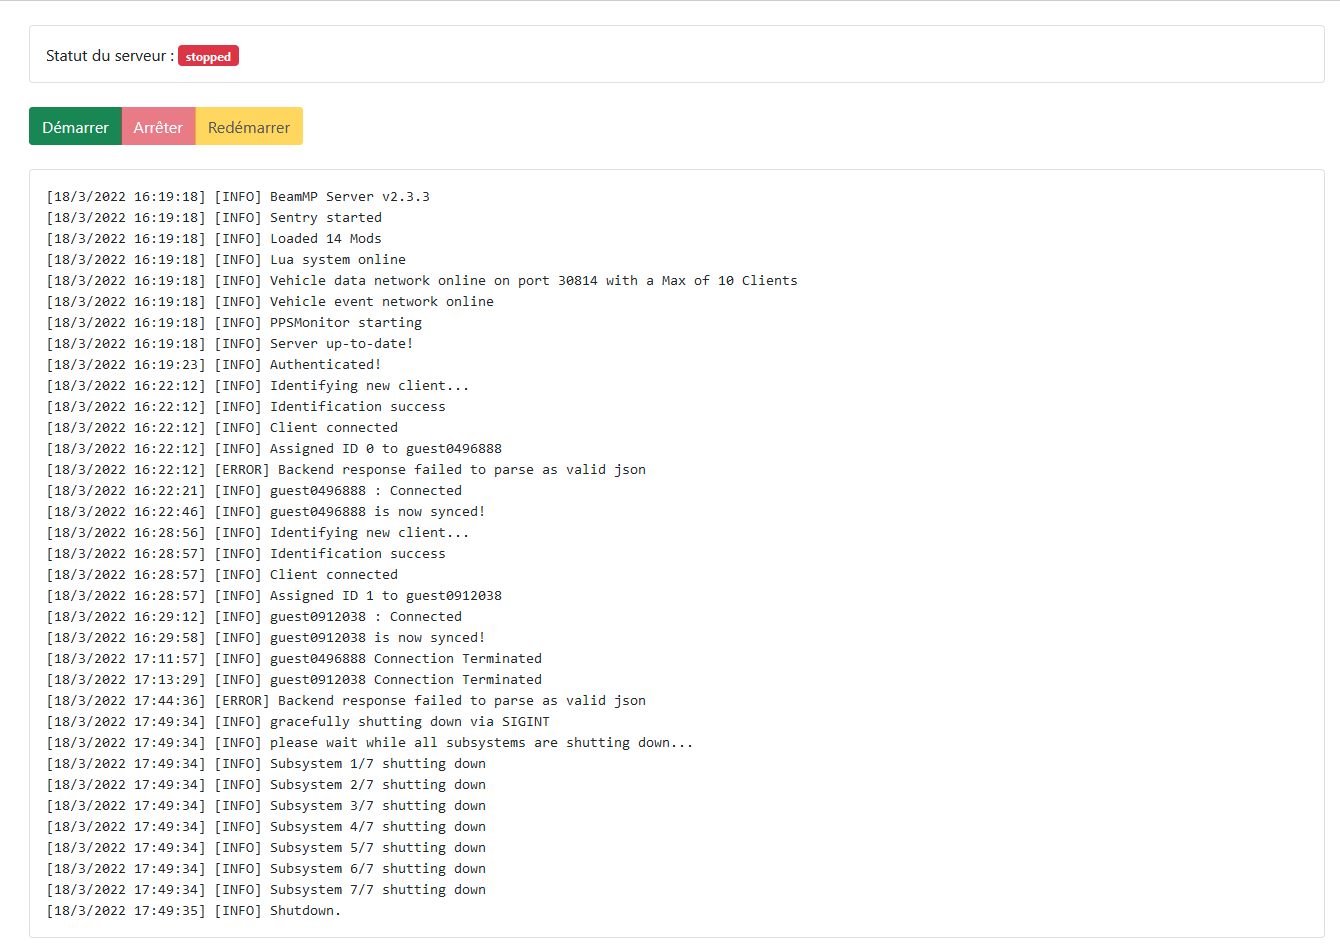
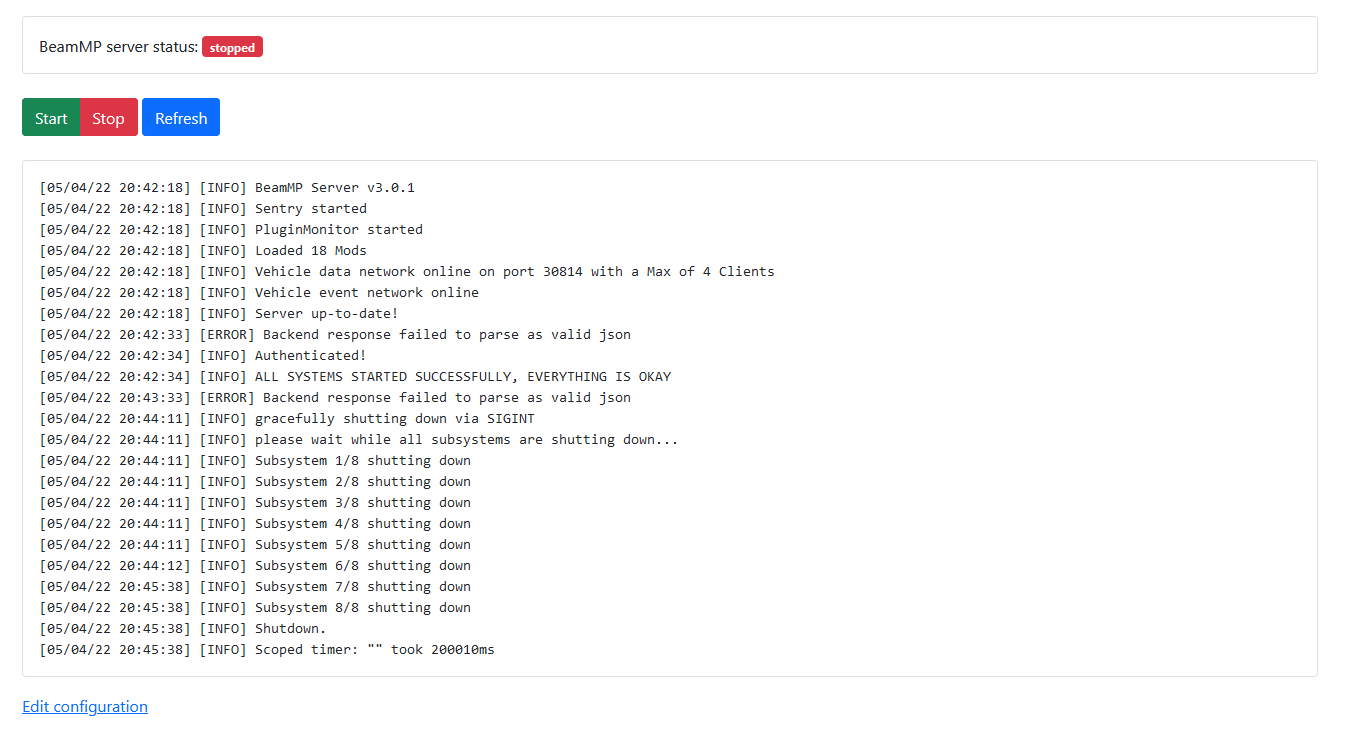
add install documentation

Changed region(s): [[0.0, 0.0301, 0.5813, 0.9918], [0.459, 0.7814, 0.4896, 0.8115]]

diff --git a/README.md b/README.md
@@ -1,4 +1,59 @@
-# beammp-admin
+# Beammp admin
 Web interface for [BeamMP server](https://github.com/BeamMP/BeamMP-Server)
 
 ![Screenshot](doc/beammp%20admin%20screenshot.PNG "Screenshot")
+
+![Screenshot](doc/beammp%20admin%20screenshot%202.PNG "Screenshot")
+
+## Installation
+
+You need nodejs version 12 or greater.
+
+- Clone this repository: 
+
+```bash
+git clone https://github.com/levg34/beammp-admin.git
+```
+
+- Install node libraries: 
+
+```bash
+cd beammp-admin
+npm install
+```
+
+- Build the project
+
+```bash
+npm run build
+```
+
+- Create your config:
+
+Create a  .env.local file in `beammp-admin` folder root with the following content:
+
+```bash
+HOST=193.201.31.49                       # replace with your beamMP server IP adress
+USERNAME=youruser                        # replace with the username which runs BeamMP server on your remote server
+PRIVATE_KEY=/home/localuser/.ssh/id_rsa  # replace with the path to your private key
+```
+
+- Add your key to authorized ssh keys
+
+Copy the public key from where you run this server to the remote server (where you run beammp server) in `~/.ssh/authorized_keys`
+
+```bash
+cat /home/localuser/.ssh/id_rsa.pub | ssh youruser@beammpserver: -T "cat >> ~/.ssh/authorized_keys"
+```
+
+- Start the server
+
+```bash
+npm start
+```
+
+:warning: To run the server in the background indefinitely, run this command instead:
+
+```bash
+nohup npx next start &
+```
